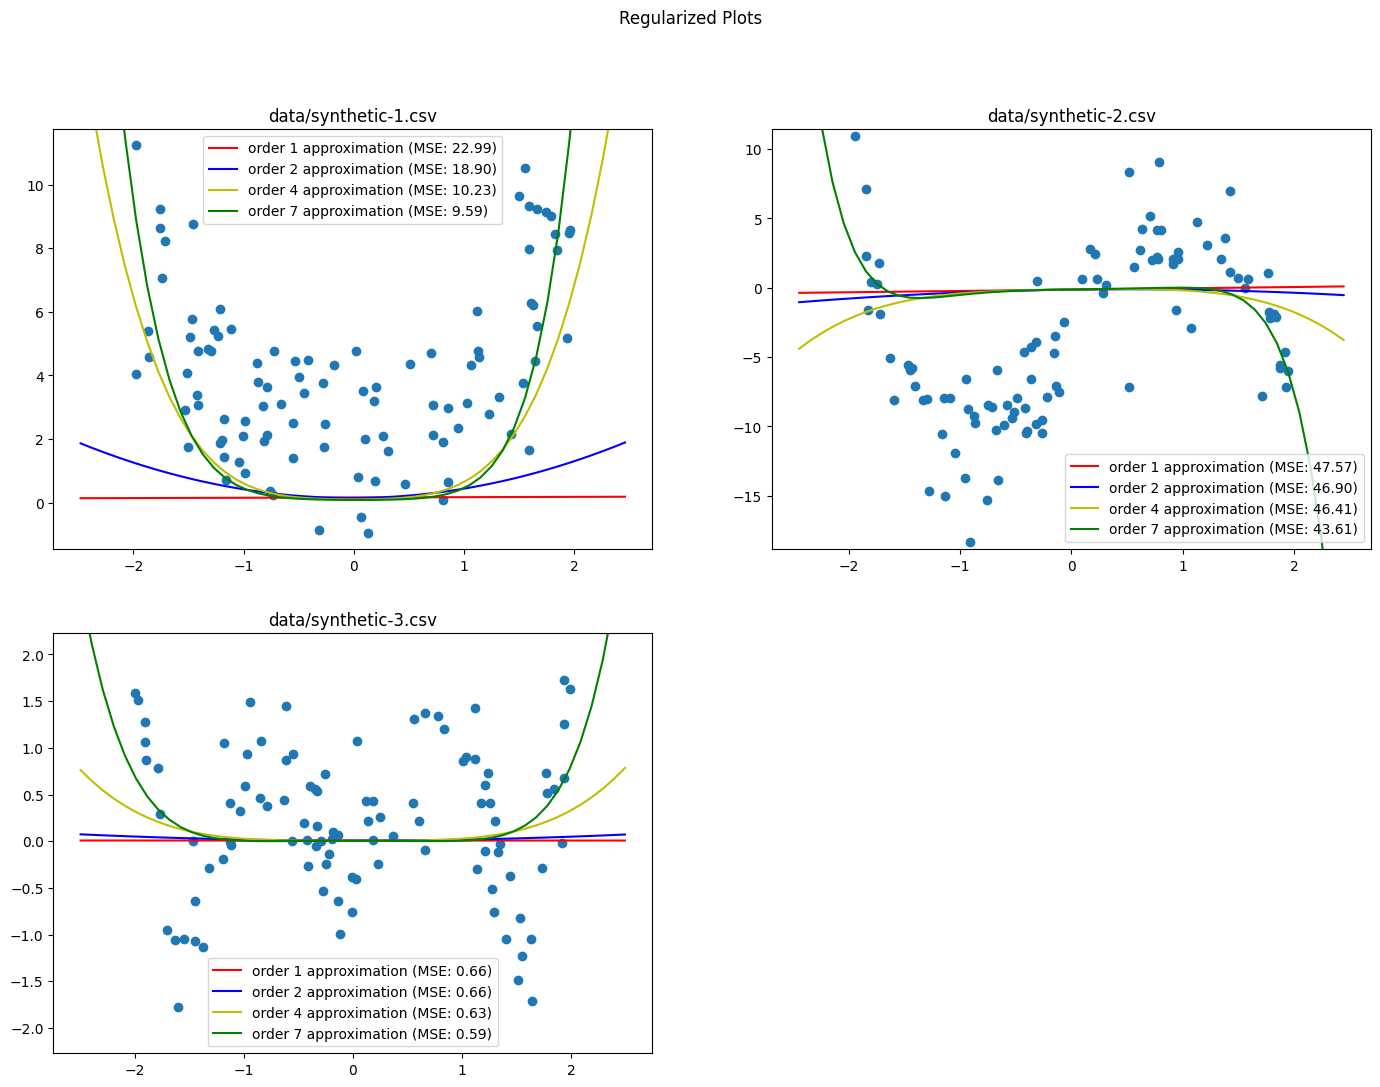
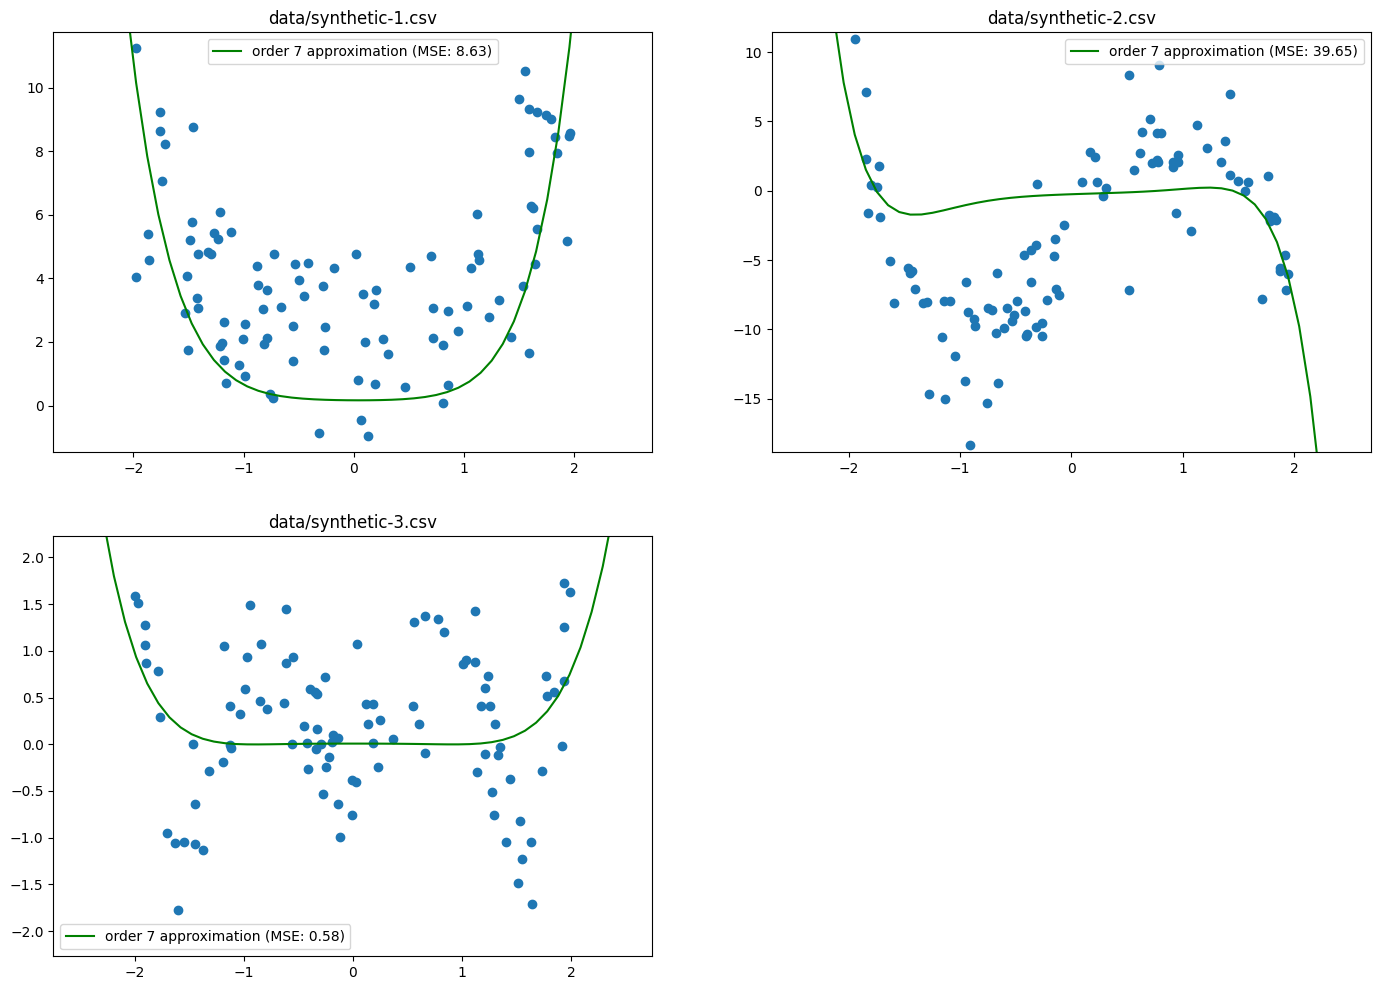
refactoring without randomness

diff --git a/regression.py b/regression.py
@@ -4,32 +4,38 @@
 
 import numpy as np
 import matplotlib.pyplot as plt
-import random
+# import random
 
-random.seed(12) # for repeatability
+# random.seed(12) # for repeatability
 
-def loss(data, theta, power):
-    error = 0.0
-    for point in data:
-        sum = 0.0
-        for i in range(len(theta)):
-            sum += theta[i] * (point[0] ** i)
-        error += (sum - point[1]) * (point[0] ** power)
-    return error/len(data)
+# def loss(data, theta, power):
+#     error = 0.0
+#     for point in data:
+#         sum = 0.0
+#         for i in range(len(theta)):
+#             sum += theta[i] * (point[0] ** i)
+#         error += (sum - point[1]) * (point[0] ** power)
+#     return error/len(data)
 
-def stochasticLoss(data, theta, power):
-    point = random.choice(data) # operate on a randomly chosen point from the dataset
-    sum = 0.0
-    for i in range(len(theta)):
-        sum += theta[i] * (point[0] ** i)
-    error = (sum - point[1]) * (point[0] ** power)
-    return error
+# def stochasticLoss(data, theta, power):
+#     # point = random.choice(data) # operate on a randomly chosen point from the dataset
+#     sum = 0.0
+#     for i in range(len(theta)):
+#         sum += theta[i] * (point[0] ** i)
+#     error = (sum - point[1]) * (point[0] ** power)
+#     return error
 
 def regression(theta, data, lambdaValue = 0):
     # alpha = (1.0 * 10**-5)
-    alpha = 0.0001
-    for j in range(len(theta)):
-        theta[j] = theta[j] - (alpha * stochasticLoss(data, theta, j)) - alpha * lambdaValue * theta[j]
+    alpha = 0.001
+    for power in range(len(theta)):
+        error = 0.0
+        for point in data:
+            sum = 0.0
+            for index, value in enumerate(theta):
+                sum += value * (point[0] ** index)
+            error += ((sum - point[1]) * (point[0] ** power)) / len(data)
+        theta[power] = theta[power] - (alpha * error) - alpha * lambdaValue * theta[power]
     return theta
 
 def generateLine(thetas, xVals):
@@ -57,7 +63,7 @@ class Polynomial:
         self.plotColor = color
 
 plt.figure(figsize=(17,12))
-plt.suptitle("Plots")
+# plt.suptitle("Plots")
 for index, fileName in enumerate([r'data/synthetic-1.csv', r'data/synthetic-2.csv', r'data/synthetic-3.csv']):
 # for index, fileName in enumerate([r'data/synthetic-3.csv']):
     subplot = plt.subplot(2, 2, index + 1)
@@ -69,7 +75,7 @@ for index, fileName in enumerate([r'data/synthetic-1.csv', r'data/synthetic-2.cs
 
     for polynomial in [Polynomial(1, '-r'), Polynomial(2, '-b'), Polynomial(4, '-y'), Polynomial(7, '-g')]:
         theta = [0] * polynomial.thetaCount
-        for _ in range(20000):
+        for _ in range(200):
         # while(meanSquaredError(theta, data) > 15):
             theta = regression(theta, data)
 
@@ -86,7 +92,7 @@ plt.savefig(r'media/plots.png', bbox_inches='tight')
 plt.close()
 
 plt.figure(figsize=(17,12))
-plt.suptitle("Regularized Plots")
+# plt.suptitle("Regularized Plots")
 for index, fileName in enumerate([r'data/synthetic-1.csv', r'data/synthetic-2.csv', r'data/synthetic-3.csv']):
 # for index, fileName in enumerate([r'data/synthetic-3.csv']):
     subplot = plt.subplot(2, 2, index + 1)
@@ -98,9 +104,9 @@ for index, fileName in enumerate([r'data/synthetic-1.csv', r'data/synthetic-2.cs
 
     for polynomial in [Polynomial(7, '-g')]:
         theta = [0] * polynomial.thetaCount
-        for _ in range(20000):
+        for _ in range(200):
         # while(meanSquaredError(theta, data) > 15):
-            theta = regression(theta, data, 5)
+            theta = regression(theta, data, 10)
 
         # x = np.linspace(-3,3)
         x = np.linspace(min(data[:,0]-0.5), max(data[:,0])+0.5)
